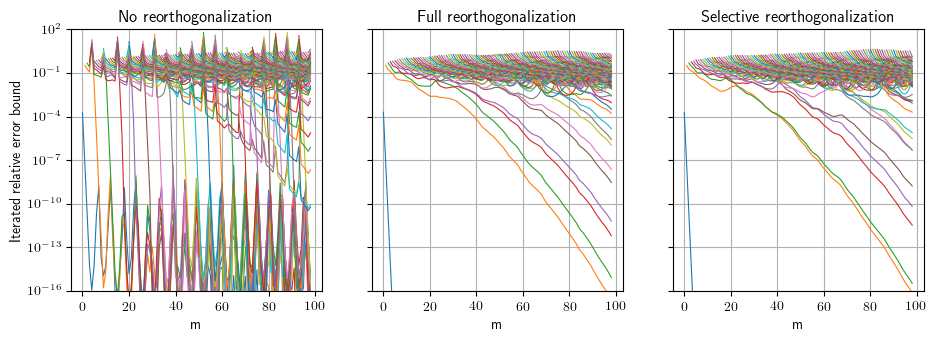
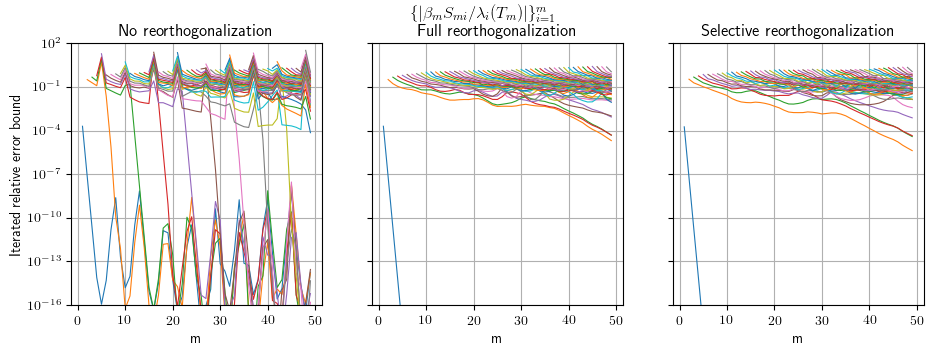
first-commit

Changed region(s): [[0.0, 0.0293, 0.3714, 0.9091], [0.7118, 0.0293, 0.9904, 0.9091], [0.4023, 0.0, 0.6809, 0.9091]]

diff --git a/examples/example01.py b/examples/example01.py
@@ -15,10 +15,7 @@ n = 1000
 A = np.random.rand(n, n)
 A = A.dot(A.T)
 
-v = np.random.rand(n)
-v /= np.linalg.norm(v)
-
-m = 100
+m = 50
 npairs = 10
 
 eigvals = np.linalg.eigvalsh(A)[-1::-1]
@@ -55,26 +52,29 @@ fig, ax = pl.subplots(1, 3, figsize=(11,3.4), sharey="row")
 lw = .5
 ax[0].set_title("No reorthogonalization")
 for i in range(mj):
-  ax[0].semilogy(approx_eigvals[i,:], "+")
+  ax[0].semilogy(range(1,m), approx_eigvals[i,:], "+")
 for i in range(mj):
-  ax[0].semilogy(approx_eigvals[i,:], "-", lw=lw)
+  ax[0].semilogy(range(1,m), approx_eigvals[i,:], "-", lw=lw)
 ax[0].semilogy(eigvals.shape[0]*[mj+3], eigvals, "k_", lw=0)
 
 ax[1].set_title("Full reorthogonalization")
 for i in range(mj):
-  ax[1].semilogy(approx_eigvals_full[i,:], "+")
+  ax[1].semilogy(range(1,m), approx_eigvals_full[i,:], "+")
 for i in range(mj):
-  ax[1].semilogy(approx_eigvals_full[i,:], "-", lw=lw)
+  ax[1].semilogy(range(1,m), approx_eigvals_full[i,:], "-", lw=lw)
 ax[1].semilogy(eigvals.shape[0]*[mj+3], eigvals, "k_", lw=0)
 
 ax[2].set_title("Selective reorthogonalization")
 for i in range(mj):
-  ax[2].semilogy(approx_eigvals_selective[i,:], "+")
+  ax[2].semilogy(range(1,m), approx_eigvals_selective[i,:], "+")
 for i in range(mj):
-  ax[2].semilogy(approx_eigvals_selective[i,:], "-",  lw=lw)
+  ax[2].semilogy(range(1,m), approx_eigvals_selective[i,:], "-",  lw=lw)
+for j in range(3):
+  ax[j].grid()
 ax[2].semilogy(eigvals.shape[0]*[mj+3], eigvals, "k_", lw=0)
 ax[1].set_ylim(ax[0].get_ylim()); ax[2].set_ylim(ax[0].get_ylim())
 ax[0].set_ylabel("Approximate eigenvalues")
+fig.suptitle(r"$\{\lambda_i(T_m)\}_{i=1}^m$")
 ax[0].set_xlabel("m"); ax[1].set_xlabel("m"); ax[2].set_xlabel("m")
 pl.savefig(figures_path+"example01_lanczos_a.png", bbox_inches='tight')
 #pl.show()
@@ -84,89 +84,49 @@ lw = .8
 ax[0].set_title("No reorthogonalization")
 for i in range(mj):
   ind = (iterated_error_bound[i,:]==None).sum()
-  ax[0].semilogy(np.concatenate((iterated_error_bound[i,:ind],iterated_error_bound[i,ind:]/approx_eigvals[i,ind:])), "-", lw=lw)
+  ax[0].semilogy(range(1,m), np.concatenate((iterated_error_bound[i,:ind],iterated_error_bound[i,ind:]/approx_eigvals[i,ind:])), "-", lw=lw)
 ax[1].set_title("Full reorthogonalization")
 for i in range(mj):
   ind = (iterated_error_bound_full[i,:]==None).sum()
-  ax[1].semilogy(np.concatenate((iterated_error_bound_full[i,:ind],iterated_error_bound_full[i,ind:]/approx_eigvals_full[i,ind:])), "-", lw=lw)
+  ax[1].semilogy(range(1,m), np.concatenate((iterated_error_bound_full[i,:ind],iterated_error_bound_full[i,ind:]/approx_eigvals_full[i,ind:])), "-", lw=lw)
 ax[2].set_title("Selective reorthogonalization")
 for i in range(mj):
   ind = (iterated_error_bound_selective[i,:]==None).sum()
-  ax[2].semilogy(np.concatenate((iterated_error_bound_selective[i,:ind],iterated_error_bound_selective[i,ind:]/approx_eigvals_selective[i,ind:])), "-", lw=lw)
+  ax[2].semilogy(range(1,m), np.concatenate((iterated_error_bound_selective[i,:ind],iterated_error_bound_selective[i,ind:]/approx_eigvals_selective[i,ind:])), "-", lw=lw)
 ax[1].set_ylim(ax[0].get_ylim()); ax[2].set_ylim(ax[0].get_ylim())
 ax[0].set_ylim(1e-16,1e2)
 ax[0].set_ylabel("Iterated relative error bound")
+fig.suptitle(r"$\{|\beta_mS_{mi}/\lambda_i(T_m)|\}_{i=1}^m$")
 for j in range(3):
   ax[j].set_xlabel("m")
   ax[j].grid()
 pl.savefig(figures_path+"example01_lanczos_b.png", bbox_inches='tight')
 #pl.show()
 
+fig, ax = pl.subplots(1, 3, figsize=(11,3.4), sharey="row")
+lw = .8
+ax[0].set_title("No reorthogonalization")
+for i in range(mj):
+  ind = (approx_eigvals[i,:]==None).sum()
+  ax[0].semilogy(range(1,m), np.concatenate((approx_eigvals[i,:ind],np.abs((approx_eigvals[i,ind:]-eigvals[i])/eigvals[i]))), "-", lw=lw)
+ax[1].set_title("Full reorthogonalization")
+for i in range(mj):
+  ind = (approx_eigvals_full[i,:]==None).sum()
+  ax[1].semilogy(range(1,m), np.concatenate((approx_eigvals_full[i,:ind],np.abs((approx_eigvals_full[i,ind:]-eigvals[i])/eigvals[i]))), "-", lw=lw)
+ax[2].set_title("Selective reorthogonalization")
+for i in range(mj):
+  ind = (approx_eigvals_selective[i,:]==None).sum()
+  ax[2].semilogy(range(1,m), np.concatenate((approx_eigvals_selective[i,:ind],np.abs((approx_eigvals_selective[i,ind:]-eigvals[i])/eigvals[i]))), "-", lw=lw)
+ax[0].set_ylabel("Global error")
+fig.suptitle("Global error, "+r"$\{|\lambda_i(T_m)-\lambda_i(A)|/|\lambda_i(A)|\}_{i=1}^m$")
+for j in range(3):
+  ax[j].set_xlabel("m")
+  ax[j].grid()
+pl.savefig(figures_path+"example01_lanczos_c.png", bbox_inches='tight')
+#pl.show()
 
-"""
-V, alpha, beta = Lanczos(A, v, m)
-
-n_eigvecs = 7
-eigvals = get_eigvals(A, n_eigvecs)
-err_bnd, iterated_err_bnd, approx_eigvals, global_err, local_err = [], [], [], [], []
-for m_j in range(10, m+1):
-  T = get_T(alpha[:m_j], beta[:m_j-1])
-  Y, _approx_eigvals, _err_bnd, _iterated_err_bnd, _global_err, _local_err = get_approx_eigvecs(T, V[:,:m_j], A, beta[:m_j-1], n_eigvecs, eigvals=eigvals, output_format=1)
-  approx_eigvals += [_approx_eigvals]
-  err_bnd += [_err_bnd]
-  iterated_err_bnd += [_iterated_err_bnd]
-  global_err += [_global_err]
-  local_err += [_local_err]
-err_bnd, iterated_err_bnd = np.array(err_bnd), np.array(iterated_err_bnd)
-global_err, local_err = np.array(global_err), np.array(local_err)
-
-fig = pl.figure()
-for i in range(n_eigvecs):
-  pl.semilogy([_eigvals[i] for _eigvals in approx_eigvals])
-  pl.xlabel("m")
-  pl.ylabel(r"$\theta_k^{(m)}$")
-pl.show()
-"""
-
-
-"""
-err_, iterated_err_bnd, approx_eigvals, global_err, local_err = [], [], [], [], []
-for m_j in range(10, m+1):
-  T = get_T(alpha[:m_j], beta[:m_j-1])
-  Y, _approx_eigvals, _err_bnd, _iterated_err_bnd, _global_err, _local_err = get_approx_eigvecs(T, V[:,:m_j], A, beta[:m_j-1], n_eigvecs, eigvals=eigvals, output_format=1)
-  approx_eigvals += [_approx_eigvals]
-  err_bnd += [_err_bnd]
-  iterated_err_bnd += [_iterated_err_bnd]
-  global_err += [_global_err]
-  local_err += [_local_err]
-err_bnd, iterated_err_bnd = np.array(err_bnd), np.array(iterated_err_bnd)
-global_err, local_err = np.array(global_err), np.array(local_err)
-
-fig = pl.figure()
-for i in range(n_eigvecs):
-  pl.semilogy([_eigvals[i] for _eigvals in approx_eigvals])
-  pl.xlabel("m")
-  pl.ylabel(r"$\theta_k^{(m)}$")
-pl.show()
-
-for i in range(n_eigvecs):
-  fig = pl.figure()
-  pl.semilogy(err_bnd[:,i], label=r"$\|Ay_{%d}^{(m)}-\theta_{%d}^{(m)}y_{%d}^{(m)}\|_2/|\lambda_{%d}(A)|$" %(i+1, i+1, i+1, i+1))
-  pl.semilogy(iterated_err_bnd[:,i], label=r"$|\beta_m||(S_m)_{m,%d}|/|\lambda_{%d}(A)|$" %(i+1, i+1))
-  pl.semilogy(global_err[:,i], label=r"$|\theta_{%d}^{(m)}-\lambda_{%d}(A)|/|\lambda_{%d}(A)|$" %(i+1, i+1, i+1))
-  pl.semilogy(local_err[:,i], label=r"$\min_{j}|\theta_{%d}^{(m)}-\lambda_{j}(A)|/|\lambda_{%d}(A)|$" %(i+1, i+1))
-  pl.xlabel("m")
-  pl.ylabel("Error bound and iterated error bound")
-  pl.legend()
-  pl.show()
-"""
-
-# Q1:    HOW DO YOU ASSESS THE ACCURACY OF THOSE APPROXIMATION.
-#        i.e. HOW DO YOU PICK m for a given n_eigvecs
+# TO DO:
+# Q1:    HOW DO YOU PICK m for a given n_eigvecs?
 #        You can not know this, see p. 239-240 of Dongara et al.'s book.
-# R1/T1: See oscillations of error bounds (iterated or not).
-#        Plot local/global errors as in p. 370-371 of Demmel's book.
-#        Try
 # T2:    Implement restart strategies.
 #        Explicit vs implicit, see p. 239-240 of Dongara et al.'s book
-# T3:    Measure and plot LOO?

diff --git a/lanczos.py b/lanczos.py
@@ -2,11 +2,6 @@ import numpy as np
 import scipy.sparse as sparse
 import scipy.sparse.linalg
 
-# See https://people.eecs.berkeley.edu/~demmel/ma221_Fall09/Matlab/
-#     https://people.eecs.berkeley.edu/~demmel/ma221_Fall09/Matlab/LANCZOS_README.html
-
-
-
 def lanczos(A, npairs, m=50, q1=None, reortho=None, eigvals=None):
   # Implementation #1 : Algo. 7.1 (Demmel, 1997);
   # (  we use this )    Algo. 10.1.1 (Golub, 2012)
@@ -38,8 +33,6 @@ def lanczos(A, npairs, m=50, q1=None, reortho=None, eigvals=None):
   Q[:,0] = q1
   
   if isinstance(eigvals, np.ndarray):
-    #data = {"approx_eigvecs":[], "approx_eigvals":[], "rel_iterated_error_bound":[], \
-    #    "rel_error_bound":[], "global_error":[], "local_error":[]}
     data = {"approx_eigvecs":[], "approx_eigvals":[], "iterated_error_bound":[]}
 
   for j in range(m):
@@ -78,57 +71,7 @@ def lanczos(A, npairs, m=50, q1=None, reortho=None, eigvals=None):
       data["approx_eigvals"] += [theta[-1::-1]]
       data["iterated_error_bound"] += [np.abs(beta[j+1]*S[j,-1::-1])]
 
-      # data["rel_error_bound"], data["global_error"] and data["local_error"]
-      # can be computed after
-
-
-      # Get iterated error bounds, ...
-
-      """
-      if not isinstance(eigvals, np.ndarray):
-        approx_eigvecs, approx_eigvals, iterated_error_bound = \
-          get_approx_eigvecs(V[:,:j+1], A, alpha[:j+1], beta[1:j+1], beta[j+1], j+1)
-      else:
-        approx_eigvecs, approx_eigvals, rel_iterated_error_bound, \
-        rel_error_bound, global_error, local_error = \
-          get_approx_eigvecs(V[:,:j+1], alpha[:j+1], beta[1:j+1], beta[j+1], j+1, A=A, eigvals=eigvals)
-        data["approx_eigvecs"] += [approx_eigvecs]
-        data["approx_eigvals"] += [approx_eigvals]
-        data["rel_iterated_error_bound"] += [rel_iterated_error_bound]
-        data["rel_error_bound"] += [rel_error_bound]
-        data["global_error"] += [global_error]
-        data["local_error"] += [local_error]
-      """
-
   if not isinstance(eigvals, np.ndarray):
     return approx_eigvecs, approx_eigvals, iterated_error_bound
   else:
     return data
-
-def get_approx_eigvecs(V, alpha, beta, beta_j, n_eigvecs, A=None, eigvals=None):
-  reduced_eigvals, reduced_eigvecs = scipy.linalg.eigh_tridiagonal(alpha, beta, select="a")
-  reduced_eigvals = reduced_eigvals[-1::-1]
-  reduced_eigvecs = reduced_eigvecs[:,-1::-1]
-  # reduced eigpairs are sorted from most to less dominant
-
-  # Form Ritz approximate eigenvectors of A
-  Y = V.dot(reduced_eigvecs)
-
-  # Iterated error bound:
-  iterated_error_bound = [abs(beta_j)*abs(reduced_eigvecs[-1,i]) for i in range(n_eigvecs)]
-  
-  if not isinstance(eigvals, np.ndarray):
-    #return Y, reduced_eigvals, iterated_error_bound
-    return Y, reduced_eigvals, iterated_error_bound
-
-  else:
-    rel_iterated_error_bound = np.array(iterated_error_bound)/np.abs(eigvals[:n_eigvecs])
-
-    # Exact error bound:
-    error_bound = [np.linalg.norm(A.dot(Y[:,i])-reduced_eigvals[i]*Y[:,i]) for i in range(n_eigvecs)]
-    rel_error_bound = np.array(error_bound)/np.abs(eigvals[:n_eigvecs])
-
-    # GLobal and local errors, see p. 370 in Demmel's textbook:
-    global_error = np.abs(reduced_eigvals-eigvals[:n_eigvecs])/np.abs(eigvals[:n_eigvecs])
-    local_error = np.array([np.min(reduced_eigvals-eigvals[i]) for i in range(n_eigvecs)])/np.abs(eigvals[:n_eigvecs])
-    return Y, reduced_eigvals, rel_iterated_error_bound, rel_error_bound, global_error, local_error
